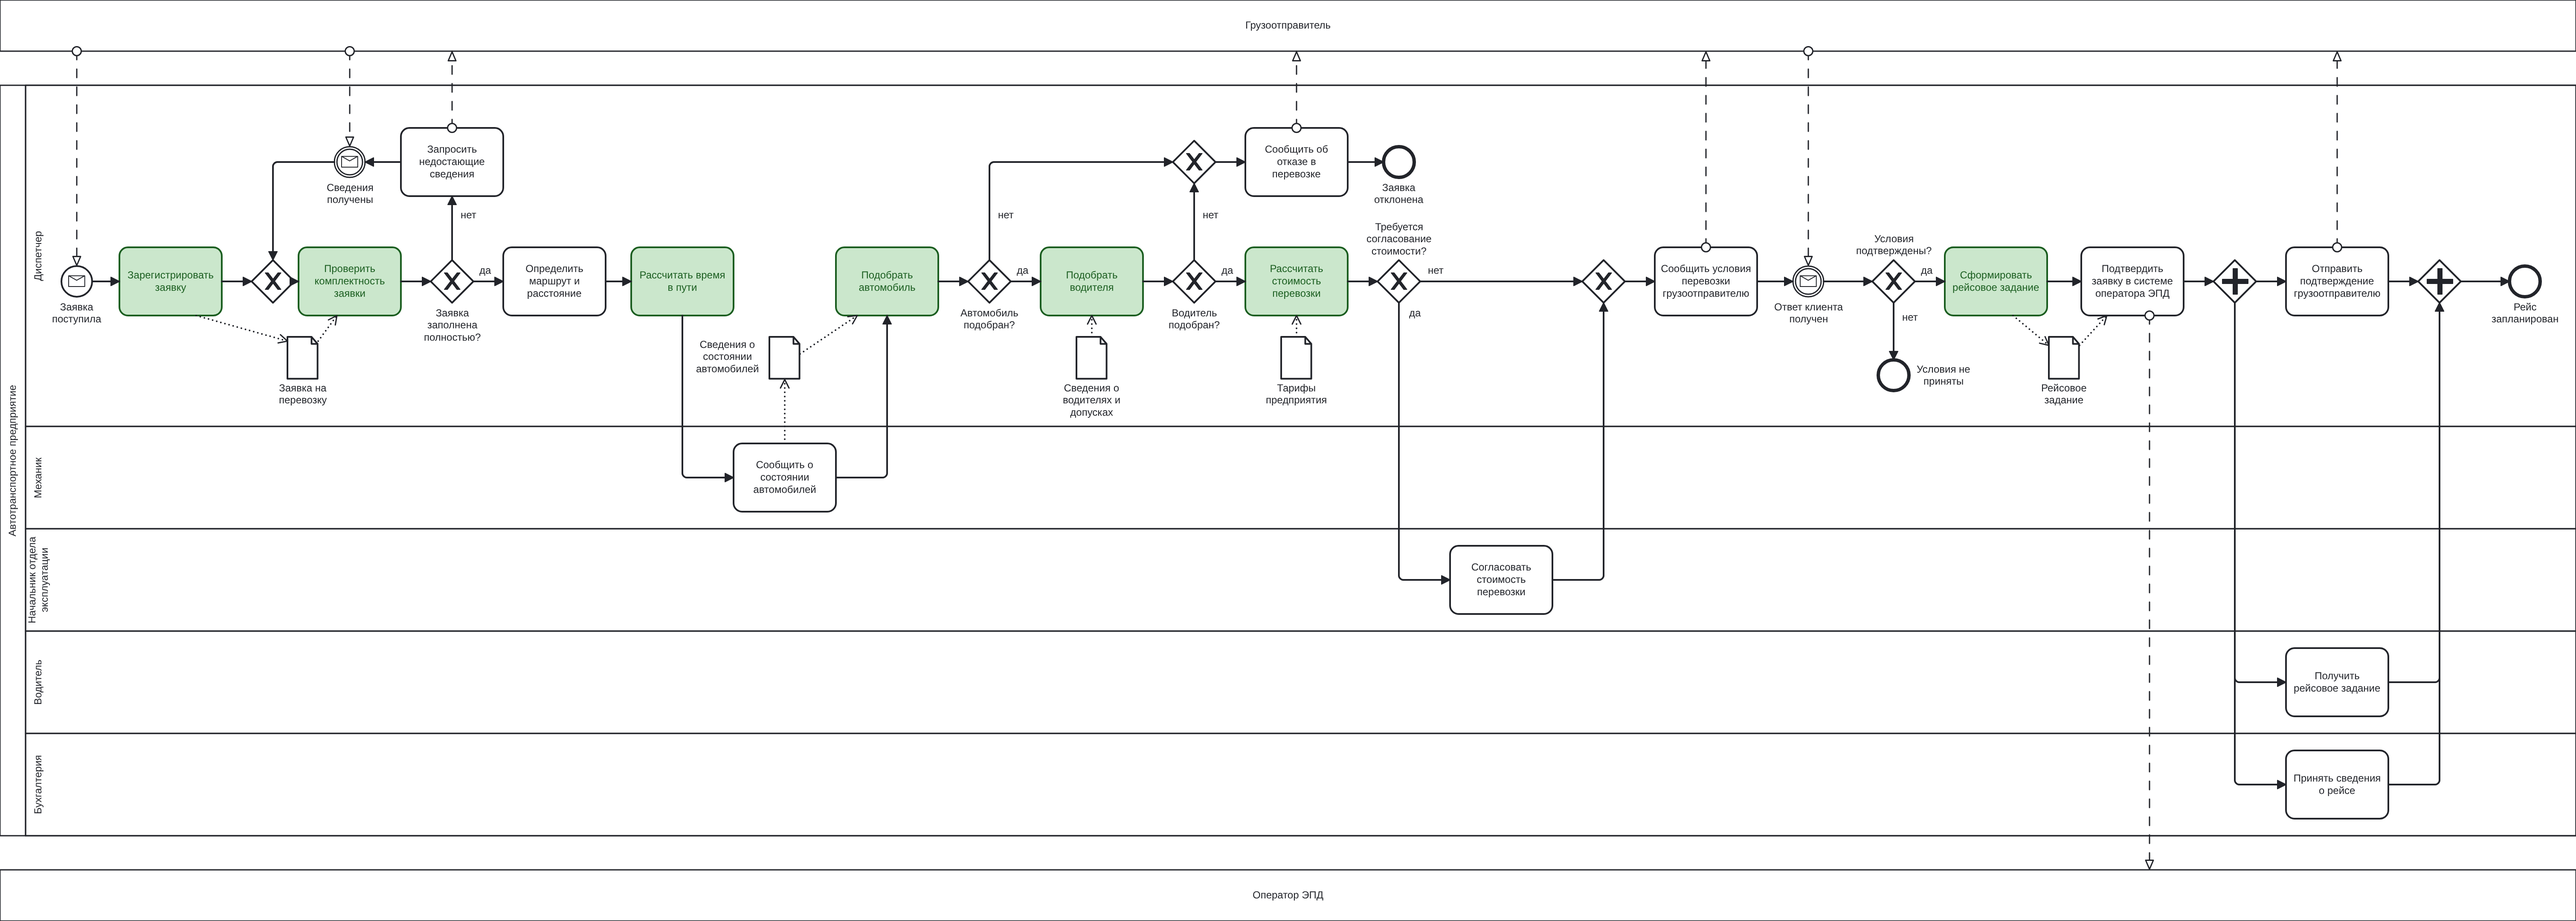
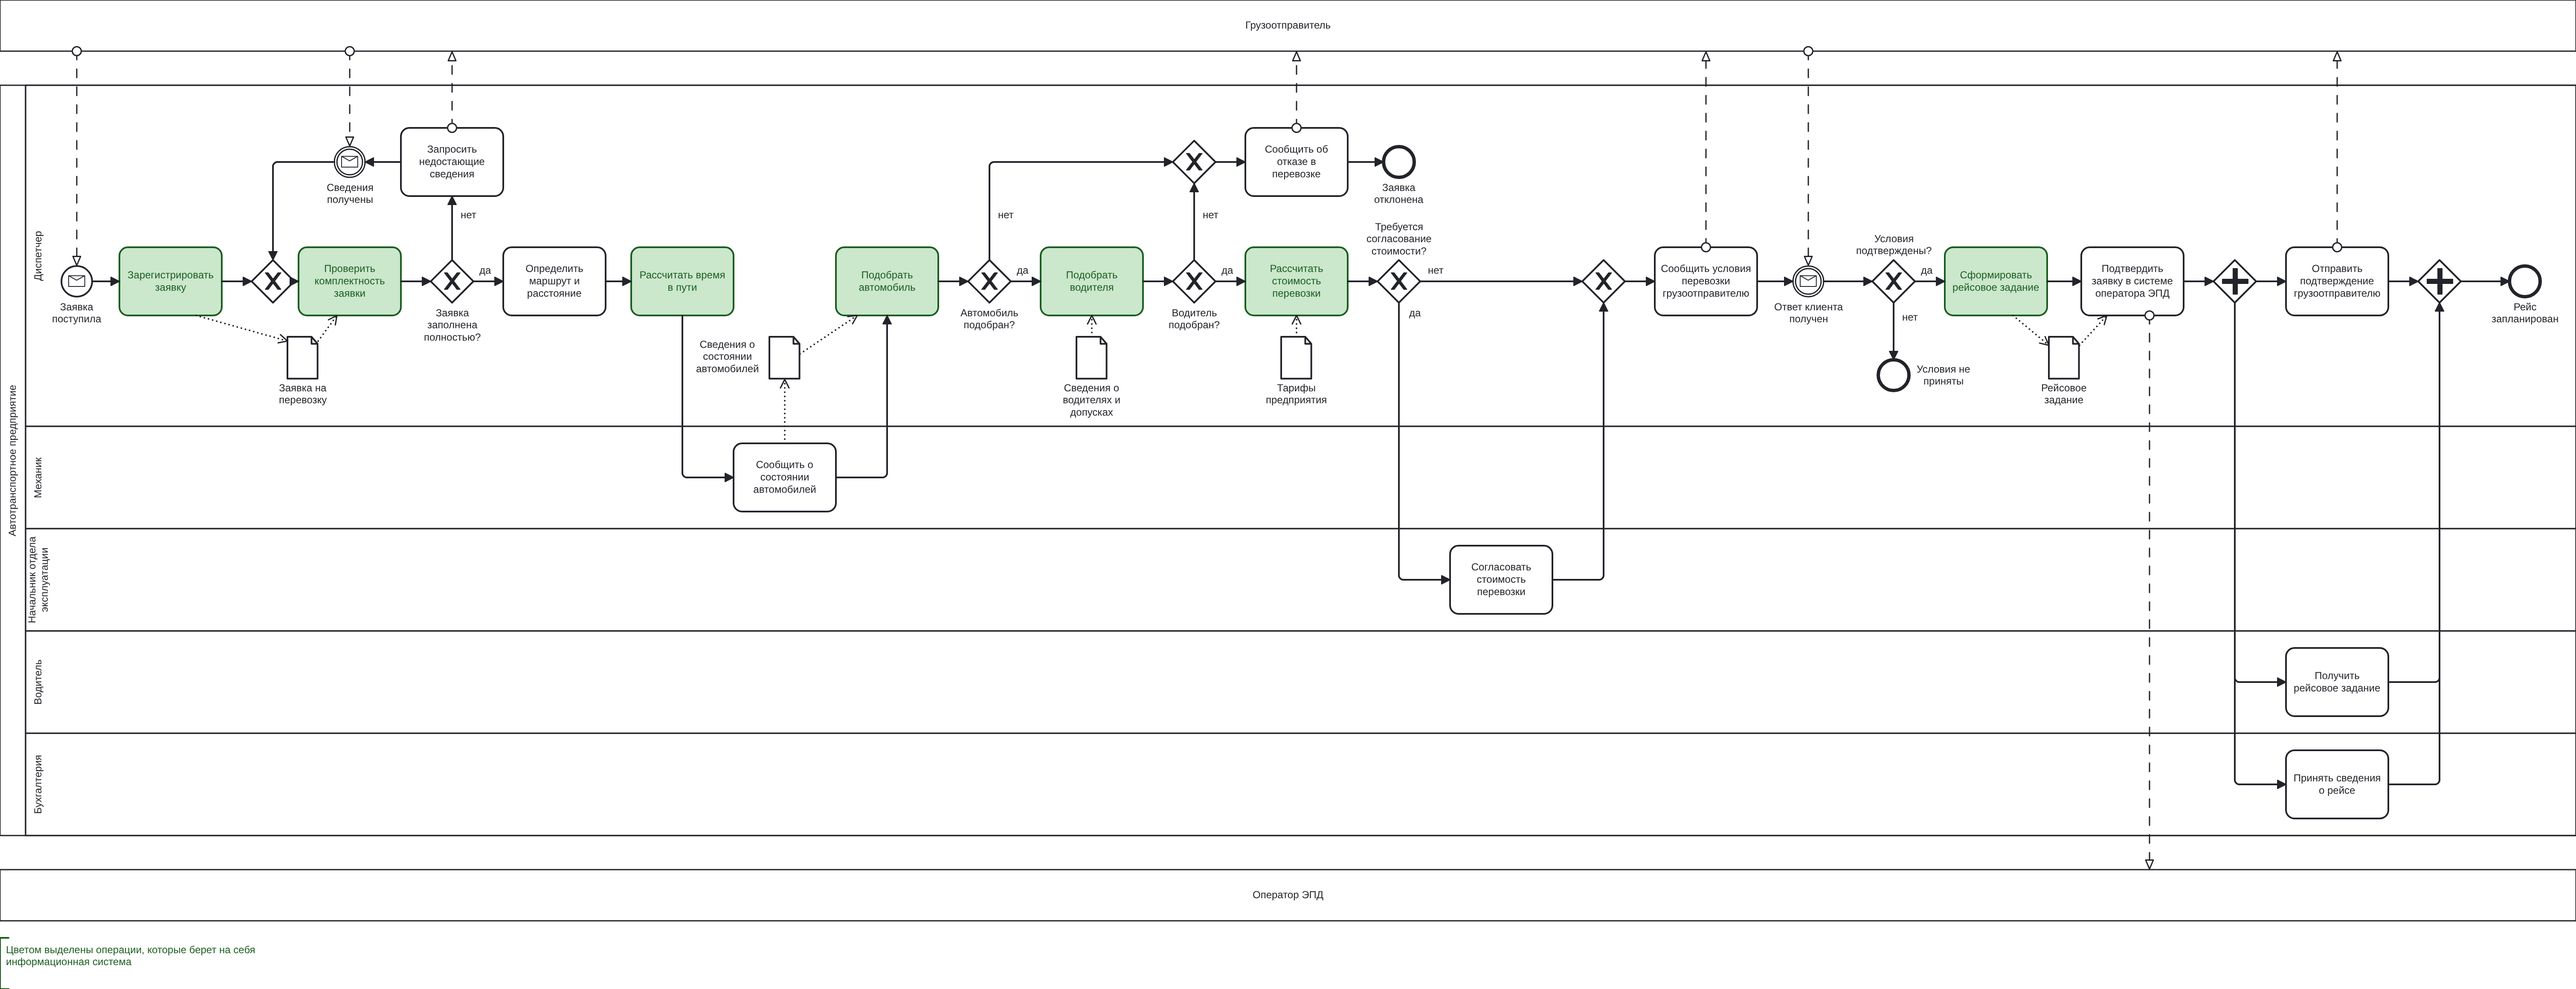
Исправлен исходник логической модели данных, обновлены блок-схемы и изображения моделей

diff --git a/README.md b/README.md
@@ -2,7 +2,7 @@
 
 Учебная практика, РТУ МИРЭА, 2026.
 
-**Тема:** Междугородние грузовые автомобильные перевозки,
+**Тема:** Междугородние грузовые автомобильные перевозки
 **Автор:** Токмянин Родион Александрович, группа ИКБО-10-24
 
 ## Автоматизируемый бизнес-процесс
@@ -18,7 +18,7 @@
 
 ## Структура репозитория
 
-- `docs/` - описание предметной области и бизнес-процесса
-- `db/` - SQL-скрипты базы данных
-- `python/` - процедурная реализация (Python)
+- `docs/models/` - модель бизнес-процесса в BPMN 2.0, логическая модель данных и блок-схемы алгоритмов (исходники и PNG)
+- `python/` - процедурная реализация (Python), запуск описан в `python/README.md`
 - `java/` - объектно-ориентированная реализация (Java, Spring Boot)
+- `compose.yaml` - PostgreSQL 17 в Docker
